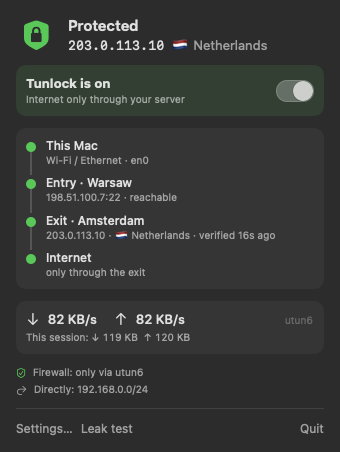
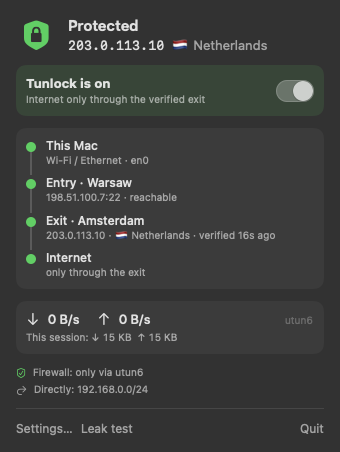
Add proxy mode: no server or SSH needed
For people who only have a proxy (IP, port, login, password) set up in
their TUN app, e.g. Karing. With UPSTREAM=proxy Tunlock runs no SSH,
lets the Mac reach only PROXY_HOST:PROXY_PORT outside the tunnel and
opens the internet only when traffic exits with the proxy's IP. The
proxy's login and password stay in the TUN app.

- bin/tunlock: UPSTREAM, PROXY_HOST, PROXY_PORT; EXPECTED_EGRESS
  defaults to the proxy IP; SSH keeper idles in proxy mode
- app: choose "through my server" or "straight to a proxy", check the
  proxy, use the seen IP as the expected exit; Proxy hop in the menu
- README: "No server? Use your proxy" section (en, ru), proxy
  screenshots
- tests: proxy rules, exit check, proxy going down, foreign exit IP

Changed region(s): [[0.3235, 0.6814, 0.5588, 0.7743], [0.3824, 0.1858, 0.6176, 0.2478], [0.1471, 0.6814, 0.3235, 0.7434]]

diff --git a/app/Sources/Tunlock/SettingsView.swift b/app/Sources/Tunlock/SettingsView.swift
@@ -10,6 +10,8 @@ struct SettingsView: View {
     @State private var tuns: [TunInterface] = tunInterfaces()
     @State private var sshCheck: Check = .idle
     @State private var ipCheck: Check = .idle
+    @State private var seenIP: String?
+    @State private var proxyCheck: Check = .idle
     @State private var saving = false
     @State private var saveError: String?
     @State private var saved = false
@@ -27,7 +29,8 @@ struct SettingsView: View {
         VStack(spacing: 0) {
             Form {
                 if !model.installed { welcome }
-                serverSection
+                upstreamSection
+                if config.isProxy { proxySection } else { serverSection }
                 tunnelSection
                 checkSection
                 exceptionsSection
@@ -94,19 +97,56 @@ struct SettingsView: View {
         }
     }
 
+    private var upstreamSection: some View {
+        Section {
+            Picker(L("How your TUN app goes out", "Как TUN-приложение выходит в интернет"), selection: $config.upstream) {
+                Text(L("Through my server over SSH", "Через мой сервер по SSH")).tag("ssh")
+                Text(L("Straight to a proxy (no server)", "Напрямую через прокси (без сервера)")).tag("proxy")
+            }
+            .pickerStyle(.radioGroup)
+        } header: {
+            Text(L("Connection", "Подключение"))
+        } footer: {
+            FooterText(config.isProxy
+                ? L("You have a proxy (IP, port, login, password) set up in your TUN app, e.g. Karing. Tunlock lets the Mac reach only that proxy and opens the internet only when traffic exits with the proxy's IP.",
+                    "У вас есть прокси (IP, порт, логин, пароль), настроенный в TUN-приложении, например в Karing. Tunlock разрешит Mac связываться только с этим прокси и откроет интернет, только когда трафик выходит с IP прокси.")
+                : L("You have your own server (VPS) you can SSH into. Tunlock keeps the SSH tunnel up; your TUN app sends traffic into it.",
+                    "У вас есть свой сервер (VPS) с доступом по SSH. Tunlock держит SSH-туннель, а TUN-приложение отправляет в него трафик."))
+        }
+    }
+
+    private var proxySection: some View {
+        Section {
+            TextField(L("Proxy IP", "IP прокси"), text: $config.proxyHost, prompt: Text("198.51.100.20"))
+            TextField(L("Proxy port", "Порт прокси"), text: $config.proxyPort, prompt: Text("8080"))
+            HStack {
+                Button(L("Check proxy", "Проверить прокси"), action: checkProxy)
+                    .disabled(config.proxyHost.isEmpty || config.proxyPort.isEmpty || proxyCheck == .running)
+                checkLabel(proxyCheck)
+            }
+        } header: {
+            Text(L("Proxy", "Прокси"))
+        } footer: {
+            FooterText(L("Only the IP and port. The login and password stay in your TUN app: Tunlock never needs or sees them. Use the IP address, not a name: DNS is blocked while protected.",
+                         "Только IP и порт. Логин и пароль остаются в TUN-приложении: Tunlock они не нужны, и он их не видит. Указывайте IP, а не имя: в защищённом режиме DNS заблокирован."))
+        }
+    }
+
     private var tunnelSection: some View {
         Section {
-            Picker(L("Through SSH", "Через SSH"), selection: $config.forward) {
-                ForEach(ForwardKind.allCases) { Text($0.title).tag($0) }
-            }
-            switch config.forward {
-            case .shadowsocks:
-                TextField(L("Local port", "Локальный порт"), text: $config.localPort)
-                TextField(L("Proxy port on the server", "Порт прокси на сервере"), text: $config.remotePort, prompt: Text("8388"))
-            case .socks:
-                TextField(L("Local SOCKS port", "Локальный SOCKS-порт"), text: $config.localPort)
-            case .custom:
-                TextField("SSH_FORWARD", text: $config.customForward, prompt: Text("-L 127.0.0.1:1080:127.0.0.1:8388"))
+            if !config.isProxy {
+                Picker(L("Through SSH", "Через SSH"), selection: $config.forward) {
+                    ForEach(ForwardKind.allCases) { Text($0.title).tag($0) }
+                }
+                switch config.forward {
+                case .shadowsocks:
+                    TextField(L("Local port", "Локальный порт"), text: $config.localPort)
+                    TextField(L("Proxy port on the server", "Порт прокси на сервере"), text: $config.remotePort, prompt: Text("8388"))
+                case .socks:
+                    TextField(L("Local SOCKS port", "Локальный SOCKS-порт"), text: $config.localPort)
+                case .custom:
+                    TextField("SSH_FORWARD", text: $config.customForward, prompt: Text("-L 127.0.0.1:1080:127.0.0.1:8388"))
+                }
             }
             Picker(L("TUN app to start and stop", "TUN-приложение (вкл/выкл вместе с Tunlock)"), selection: $config.tunService) {
                 Text(L("Don't control", "Не управлять")).tag("")
@@ -131,7 +171,10 @@ struct SettingsView: View {
         } header: {
             Text(L("Tunnel", "Туннель"))
         } footer: {
-            FooterText(config.forward == .custom
+            FooterText(config.isProxy
+                 ? L("Turn your TUN app on with the proxy profile, then pick its interface here. The number (utunN) may change later; the address may not.",
+                     "Включите TUN-приложение с профилем прокси и выберите здесь его интерфейс. Номер utunN потом может меняться, адрес — нет.")
+                 : config.forward == .custom
                  ? L("Only -L and -D are accepted.", "Допускаются только -L и -D.")
                  : L("In your TUN app, point the proxy at 127.0.0.1:\(config.localPort). Turn the TUN app on, then pick its interface here. The number (utunN) may change later; the address may not.",
                      "В TUN-приложении укажите прокси 127.0.0.1:\(config.localPort). Включите его и выберите здесь интерфейс. Номер utunN потом может меняться, адрес — нет."))
@@ -141,11 +184,20 @@ struct SettingsView: View {
     private var checkSection: some View {
         Section {
             TextField(L("Expected exit IP", "Ожидаемый выходной IP"), text: $config.expectedEgress,
-                      prompt: Text(config.vpsIP.isEmpty ? L("same as server", "как у сервера") : config.vpsIP))
+                      prompt: Text(config.effectiveEgress.isEmpty
+                                   ? (config.isProxy ? L("same as the proxy", "как у прокси") : L("same as server", "как у сервера"))
+                                   : config.effectiveEgress))
             HStack {
                 Button(L("Check exit IP now", "Проверить IP сейчас"), action: checkIP)
                     .disabled(config.tunAddr.isEmpty || ipCheck == .running)
                 checkLabel(ipCheck)
+            }
+            if let ip = seenIP, ip != config.effectiveEgress {
+                Button(L("Use \(ip) as the expected exit IP", "Использовать \(ip) как ожидаемый выходной IP")) {
+                    config.expectedEgress = ip
+                    ipCheck = .ok(L("\(ip): will be expected", "\(ip): будет ожидаться"))
+                }
+                .buttonStyle(.link)
             }
         } header: {
             Text(L("Exit check", "Проверка выхода"))
@@ -251,7 +303,8 @@ struct SettingsView: View {
             if saving { ProgressView().controlSize(.small) }
             Button(L("Save and apply", "Сохранить и применить"), action: save)
                 .keyboardShortcut(.defaultAction)
-                .disabled(saving || config.vpsIP.isEmpty || config.tunAddr.isEmpty)
+                .disabled(saving || config.tunAddr.isEmpty
+                          || (config.isProxy ? config.proxyHost.isEmpty || config.proxyPort.isEmpty : config.vpsIP.isEmpty))
         }
     }
 
@@ -323,6 +376,7 @@ struct SettingsView: View {
             let r = await run("/usr/bin/curl", ["-4fsS", "--noproxy", "*", "--interface", c.tunAddr,
                                                 "--connect-timeout", "4", "--max-time", "6", "https://1.1.1.1/cdn-cgi/trace"])
             let ip = r.output.split(separator: "\n").first { $0.hasPrefix("ip=") }.map { String($0.dropFirst(3)) }
+            seenIP = ip
             if let ip, ip == c.effectiveEgress {
                 ipCheck = .ok(L("\(ip): matches", "\(ip): совпадает"))
             } else if let ip {
@@ -330,6 +384,16 @@ struct SettingsView: View {
             } else {
                 ipCheck = .failed(L("No answer through the tunnel", "Нет ответа через туннель"))
             }
+        }
+    }
+
+    private func checkProxy() {
+        proxyCheck = .running
+        let c = config
+        Task {
+            let r = await run("/usr/bin/nc", ["-z", "-G", "4", c.proxyHost, c.proxyPort])
+            proxyCheck = r.ok ? .ok(L("Proxy answers", "Прокси отвечает"))
+                              : .failed(L("No answer from \(c.proxyHost):\(c.proxyPort)", "Нет ответа от \(c.proxyHost):\(c.proxyPort)"))
         }
     }
 

diff --git a/app/Sources/Tunlock/Backend.swift b/app/Sources/Tunlock/Backend.swift
@@ -95,6 +95,12 @@ struct DNSRule: Equatable, Identifiable {
 /// The subset of tunlock.conf the app edits. Unknown lines are not kept:
 /// the file is fully owned by this form once saved from the app.
 struct TunConfig: Equatable {
+    /// "ssh": through an SSH forward to your server. "proxy": the TUN app
+    /// connects straight to a proxy; Tunlock runs no SSH and never sees the
+    /// proxy's login and password, which stay in the TUN app.
+    var upstream = "ssh"
+    var proxyHost = ""
+    var proxyPort = ""
     var vpsIP = ""
     var sshUser = NSUserName()
     var sshPort = "22"
@@ -123,9 +129,11 @@ struct TunConfig: Equatable {
         }
     }
 
-    var effectiveEgress: String { expectedEgress.isEmpty ? vpsIP : expectedEgress }
+    var isProxy: Bool { upstream == "proxy" }
+    var effectiveEgress: String { expectedEgress.isEmpty ? (isProxy ? proxyHost : vpsIP) : expectedEgress }
 
     func render() -> String {
+        if isProxy { return renderProxy() }
         var lines = [
             "# Written by Tunlock.app. See tunlock.conf.example for all options.",
             "VPS_IP=\(vpsIP)",
@@ -147,6 +155,25 @@ struct TunConfig: Equatable {
             lines.append("JUMP_PORT=\(jumpPort)")
         }
         if !expectedEgress.isEmpty, expectedEgress != vpsIP { lines.append("EXPECTED_EGRESS=\(expectedEgress)") }
+        return lines.joined(separator: "\n") + "\n"
+    }
+
+    private func renderProxy() -> String {
+        var lines = [
+            "# Written by Tunlock.app. See tunlock.conf.example for all options.",
+            "# The proxy's login and password live only in the TUN app.",
+            "UPSTREAM=proxy",
+            "PROXY_HOST=\(proxyHost)",
+            "PROXY_PORT=\(proxyPort)",
+            "TUN_ADDR=\(tunAddr)",
+            "TUN_MASK=\(tunMask)",
+            "PROBE_INTERVAL=\(probeInterval)",
+            "TUN_SERVICE=\"\(tunService)\"",
+        ]
+        if !bypassNets.isEmpty { lines.append("BYPASS_NETS=\"\(bypassNets.joined(separator: " "))\"") }
+        let dns = bypassDNS.filter { !$0.domain.isEmpty && !$0.server.isEmpty }
+        if !dns.isEmpty { lines.append("BYPASS_DNS=\"\(dns.map { "\($0.domain)=\($0.server)" }.joined(separator: " "))\"") }
+        if !expectedEgress.isEmpty, expectedEgress != proxyHost { lines.append("EXPECTED_EGRESS=\(expectedEgress)") }
         return lines.joined(separator: "\n") + "\n"
     }
 
@@ -174,6 +201,9 @@ struct TunConfig: Equatable {
         c.jumpUser = values["JUMP_USER"] ?? ""
         c.jumpPort = values["JUMP_PORT"] ?? "22"
         c.tunService = values["TUN_SERVICE"] ?? ""
+        c.upstream = values["UPSTREAM"] == "proxy" ? "proxy" : "ssh"
+        c.proxyHost = values["PROXY_HOST"] ?? ""
+        c.proxyPort = values["PROXY_PORT"] ?? ""
         c.bypassNets = (values["BYPASS_NETS"] ?? "").split(separator: " ").map(String.init)
         c.bypassDNS = (values["BYPASS_DNS"] ?? "").split(separator: " ").compactMap { item in
             let p = item.split(separator: "=", maxSplits: 1).map(String.init)

diff --git a/app/Sources/Tunlock/MenuView.swift b/app/Sources/Tunlock/MenuView.swift
@@ -107,7 +107,7 @@ struct MenuView: View {
             VStack(alignment: .leading, spacing: 2) {
                 Text(on ? L("Tunlock is on", "Tunlock включён") : L("Tunlock is off", "Tunlock выключен"))
                     .font(.headline)
-                Text(on ? L("Internet only through your server", "Интернет только через ваш сервер")
+                Text(on ? L("Internet only through the verified exit", "Интернет только через проверенный выход")
                         : L("Nothing blocked, tunnel stopped", "Ничего не блокирует, туннель остановлен"))
                     .font(.caption).foregroundStyle(.secondary)
             }
@@ -136,7 +136,13 @@ struct MenuView: View {
                 Hop(status: .neutral, title: L("Internet, directly", "Интернет напрямую"),
                     detail: L("no tunnel, no kill switch", "без туннеля и без защиты"), last: true)
             } else {
-                if s["cascade"] == "1" {
+                if s["upstream"] == "proxy" {
+                    let up = s["entry_up"]
+                    Hop(status: up == "up" ? .good : up == "down" ? .bad : .neutral,
+                        title: L("Proxy", "Прокси") + (entryName.isEmpty ? "" : " · \(entryName)"),
+                        detail: (s["entry"] ?? "") + " · " + (up == "up" ? L("reachable", "доступен")
+                            : up == "down" ? L("not reachable", "недоступен") : L("checking", "проверяю")))
+                } else if s["cascade"] == "1" {
                     let up = s["entry_up"]
                     Hop(status: up == "up" ? .good : up == "down" ? .bad : .neutral,
                         title: L("Entry", "Вход") + (entryName.isEmpty ? "" : " · \(entryName)"),
@@ -156,7 +162,7 @@ struct MenuView: View {
 
     private func exitStatus(_ s: [String: String]) -> Hop.Status {
         if s["egress_ok"] == "1" { return .good }
-        if s["ssh"] != "up" { return .bad }
+        if s["upstream"] != "proxy", s["ssh"] != "up" { return .bad }
         return .warn
     }
 
@@ -164,7 +170,7 @@ struct MenuView: View {
         let expected = s["expected"] ?? ""
         var parts = [expected]
         if let c = s["egress_country"], !c.isEmpty { parts.append("\(flagEmoji(c)) \(countryName(c))") }
-        if s["ssh"] != "up" {
+        if s["upstream"] != "proxy", s["ssh"] != "up" {
             parts.append(L("SSH down", "SSH не подключён"))
         } else if s["egress_ok"] == "1" {
             let age = Int(Date().timeIntervalSince1970 - (TimeInterval(s["egress_at"] ?? "") ?? 0))

diff --git a/tools/snapshot.swift b/tools/snapshot.swift
@@ -23,8 +23,10 @@ enum Snapshot {
         let app = NSApplication.shared
         app.setActivationPolicy(.prohibited)
         let out = CommandLine.arguments[1]
-        UserDefaults.standard.set(isRussian ? "Варшава" : "Warsaw", forKey: HopNames.entryKey)
-        UserDefaults.standard.set(isRussian ? "Амстердам" : "Amsterdam", forKey: HopNames.exitKey)
+        let proxy = ProcessInfo.processInfo.environment["SNAPSHOT_PROXY"] != nil
+        UserDefaults.standard.set(proxy ? "" : (isRussian ? "Варшава" : "Warsaw"), forKey: HopNames.entryKey)
+        UserDefaults.standard.set(proxy ? (isRussian ? "Нью-Йорк" : "New York") : (isRussian ? "Амстердам" : "Amsterdam"),
+                                  forKey: HopNames.exitKey)
         StatusModel.shared.refresh()
         RunLoop.main.run(until: Date().addingTimeInterval(1.1))
         StatusModel.shared.refresh()

diff --git a/README.ru.md b/README.ru.md
@@ -86,9 +86,14 @@ Tunlock закрывает эту дыру на уровне файрвола:
 
 ## Быстрый старт
 
-**Что нужно:** сервер, куда можно зайти по SSH по IPv4 (его ключ в
-`~/.ssh/known_hosts`), и TUN-приложение, прокси которого смотрит на локальный
-SSH-проброс. Tunlock управляет SSH и файрволом вокруг вашего TUN-приложения,
+**Что нужно:** TUN-приложение (Karing, sing-box…) и одно из двух:
+
+- **свой сервер** с доступом по SSH по IPv4 (ключ сервера в `~/.ssh/known_hosts`):
+  Tunlock держит SSH-туннель, TUN-приложение отправляет в него трафик;
+- **или просто прокси** (IP, порт, логин, пароль), который уже работает в вашем
+  TUN-приложении: сервер и SSH не нужны, см. [Нет сервера? Подойдёт прокси](#нет-сервера-подойдёт-прокси).
+
+Tunlock управляет файрволом (и SSH, если он есть) вокруг вашего TUN-приложения,
 своего у него нет.
 
 ```bash
@@ -110,6 +115,30 @@ cp -R build/Tunlock.app /Applications/ && open /Applications/Tunlock.app
 Сборка подписана ad-hoc и не нотаризована. Собранная у себя копия открывается
 как обычно. Скачанную копию в первый раз открывайте через правый клик → **«Открыть»**.
 
+## Нет сервера? Подойдёт прокси
+
+<img src="docs/screenshots/ru-proxy-menu.png" width="300" align="right" alt="Tunlock в режиме прокси">
+
+Если у вас есть только прокси вида `IP:PORT:USER:PASSWORD` и вы пользуетесь им
+через Karing, этого достаточно. Логин и пароль Tunlock не нужны, и он их не
+видит: они остаются в Karing.
+
+1. В Karing добавьте прокси (HTTP или SOCKS5, с логином и паролем) и включите
+   **глобальный режим**. Проверьте, что сайты открываются.
+2. В настройках Tunlock выберите **«Напрямую через прокси (без сервера)»**.
+3. Укажите только **IP** и **порт** прокси, нажмите **«Проверить прокси»**.
+4. Выберите TUN-интерфейс Karing и нажмите **«Проверить IP сейчас»**. Если
+   прокси выходит в интернет не со своего IP, нажмите **«Использовать … как
+   ожидаемый выходной IP»**.
+5. **«Сохранить и применить»**, затем включите переключатель.
+
+Дальше Mac может связываться только с этим прокси. Если прокси моргнул, упал
+или Karing закрылся, интернет закрывается, пока трафик снова не выйдет с IP
+прокси. **Ротационный** прокси (новый выходной IP каждые несколько минут) не
+подойдёт: каждый новый IP Tunlock считает чужим выходом и держит интернет закрытым.
+
+<br clear="right">
+
 ## Настройка
 
 Приложение записывает `/usr/local/etc/tunlock.conf`, его можно править и
@@ -117,7 +146,9 @@ cp -R build/Tunlock.app /Applications/ && open /Applications/Tunlock.app
 
 | ключ | что это |
 |---|---|
-| `VPS_IP` | ваш сервер: цель SSH и по умолчанию единственный допустимый выходной IP |
+| `UPSTREAM` | `ssh` (по умолчанию, свой сервер) или `proxy` (без сервера: TUN-приложение ходит в прокси) |
+| `PROXY_HOST`, `PROXY_PORT` | режим прокси: IPv4 и порт прокси, единственный хост, доступный мимо туннеля |
+| `VPS_IP` | режим ssh: ваш сервер, цель SSH и по умолчанию единственный допустимый выходной IP |
 | `SSH_USER`, `SSH_PORT`, `SSH_IDENTITY` | как входить |
 | `SSH_FORWARD` | что пробрасывает SSH: `-L …` к прокси на сервере или `-D` для SOCKS |
 | `JUMP_HOST`, `JUMP_USER`, `JUMP_PORT` | необязательный вход: SSH заходит сюда и уже отсюда идёт на `VPS_IP` |

diff --git a/README.md b/README.md
@@ -85,9 +85,14 @@ no answer, SSH goes down, or the Mac wakes from sleep.
 
 ## Quick start
 
-**You need:** a server you can SSH into by IPv4 (with its host key in
-`~/.ssh/known_hosts`), and a TUN app whose proxy points at the local SSH
-forward. Tunlock manages SSH and the firewall around the TUN app you already
+**You need** a TUN app (Karing, sing-box…) and one of these:
+
+- **your own server** you can SSH into by IPv4 (host key in `~/.ssh/known_hosts`):
+  Tunlock keeps the SSH tunnel up and the TUN app sends traffic into it;
+- **or just a proxy** (IP, port, login, password) that already works in your TUN
+  app: no server and no SSH needed, see [No server? Use your proxy](#no-server-use-your-proxy).
+
+Tunlock manages the firewall (and SSH, if used) around the TUN app you already
 use; it does not include one.
 
 ```bash
@@ -108,6 +113,29 @@ cp -R build/Tunlock.app /Applications/ && open /Applications/Tunlock.app
 The build is ad-hoc signed and not notarized. A copy you build yourself opens
 normally. A downloaded copy needs right-click → **Open** the first time.
 
+## No server? Use your proxy
+
+<img src="docs/screenshots/en-proxy-menu.png" width="300" align="right" alt="Tunlock in proxy mode">
+
+If all you have is a proxy like `IP:PORT:USER:PASSWORD` and you use it in
+Karing, that is enough. Tunlock does not need the login or password and never
+sees them: they stay in Karing.
+
+1. In Karing, add the proxy (HTTP or SOCKS5, with its login and password) and
+   turn on **global mode**. Check that sites open.
+2. In Tunlock's settings choose **Straight to a proxy (no server)**.
+3. Enter only the proxy's **IP** and **port**, press **Check proxy**.
+4. Pick Karing's TUN interface, press **Check exit IP**. If the proxy exits from
+   a different address than its own IP, press **Use … as the expected exit IP**.
+5. **Save and apply**, then flip the switch.
+
+From then on, the Mac may only talk to that proxy. If the proxy blinks, goes
+down, or Karing quits, the internet stops until traffic exits with the proxy's
+IP again. A **rotating** proxy (a new exit IP every few minutes) does not fit:
+Tunlock treats each new IP as a foreign exit and keeps the internet closed.
+
+<br clear="right">
+
 ## Configuration
 
 The app writes `/usr/local/etc/tunlock.conf`. You can also edit it by hand; see
@@ -115,7 +143,9 @@ The app writes `/usr/local/etc/tunlock.conf`. You can also edit it by hand; see
 
 | key | meaning |
 |---|---|
-| `VPS_IP` | your server: SSH target and, by default, the only accepted exit IP |
+| `UPSTREAM` | `ssh` (default, your server) or `proxy` (no server: the TUN app talks to a proxy) |
+| `PROXY_HOST`, `PROXY_PORT` | proxy mode: the proxy's IPv4 and port, the only host reachable outside the tunnel |
+| `VPS_IP` | ssh mode: your server, the SSH target and, by default, the only accepted exit IP |
 | `SSH_USER`, `SSH_PORT`, `SSH_IDENTITY` | how to log in |
 | `SSH_FORWARD` | what SSH forwards: `-L …` to a proxy on the server, or `-D` for SOCKS |
 | `JUMP_HOST`, `JUMP_USER`, `JUMP_PORT` | optional relay: SSH enters here and reaches `VPS_IP` from there |
